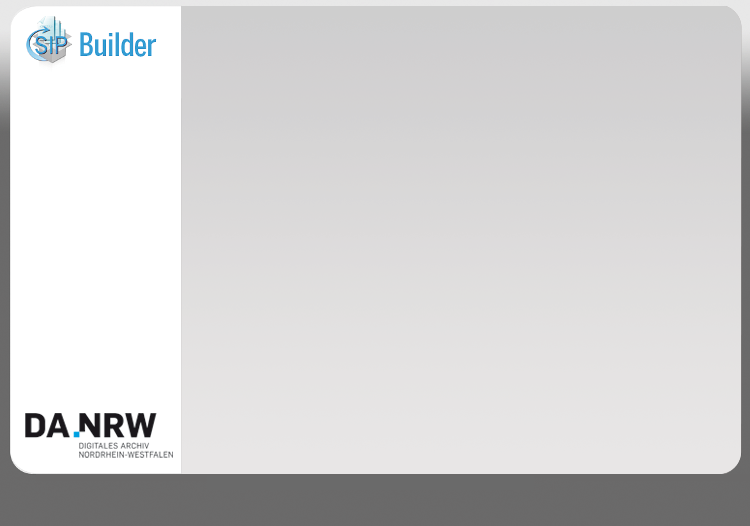
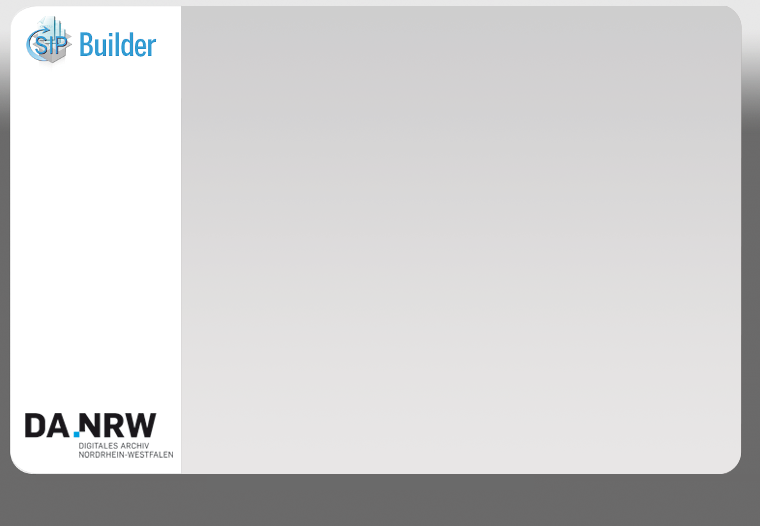
Sip Builder Issue Fixed

diff --git a/SIP-Builder/src/main/java/de/uzk/hki/da/gui/Gui.java b/SIP-Builder/src/main/java/de/uzk/hki/da/gui/Gui.java
@@ -106,7 +106,7 @@ public class Gui extends JFrame {
 
 	String confFolderPath, dataFolderPath;
 
-	int startPanelWidth = 750;
+	int startPanelWidth = 760; //750
 	int startPanelHeight = 526;
 
 	// GUI Elements
@@ -1528,7 +1528,7 @@ public class Gui extends JFrame {
 
 		// startPanel
 		startPanel.setBounds(0, 0, startPanelWidth, startPanelHeight);
-		backgroundStartImageLabel.setBounds(0, 0, 750, 526);
+		backgroundStartImageLabel.setBounds(0, 0, startPanelWidth, startPanelHeight);
 		welcomeLabel.setBounds(255, 70, 300, 40);
 		welcomeArea.setBounds(255, 100, 420, 120);
 
@@ -1549,7 +1549,7 @@ public class Gui extends JFrame {
 		goToLoadStandardButton.setBounds(575, 445, 90, 20);
 
 		// loadStandardPanel
-		loadStandardPanel.setBounds(0, 0, 750, 526);
+		loadStandardPanel.setBounds(0, 0, startPanelWidth, startPanelHeight);
 		rightsLabel.setBounds(255, 70, 300, 20);
 		rightsAreaOne.setBounds(255, 100, 430, 85);
 		loadContractButton.setBounds(350, 189, 90, 20);
@@ -1558,10 +1558,10 @@ public class Gui extends JFrame {
 		rightsAreaThree.setBounds(255, 283, 430, 100);
 		goBackToStartButton.setBounds(450, 445, 90, 20);
 		goToPublicButton.setBounds(575, 445, 90, 20);
-		backgroundLoadStandardImageLabel.setBounds(0, 0, 750, 526);
+		backgroundLoadStandardImageLabel.setBounds(0, 0, startPanelWidth, startPanelHeight);
 
 		// publicPanel
-		publicPanel.setBounds(0, 0, 750, 526);
+		publicPanel.setBounds(0, 0, startPanelWidth, startPanelHeight);
 		publicLabel.setBounds(255, 70, 300, 20);
 		publicArea.setBounds(255, 100, 400, 40);
 		publicAllowRadioButton.setBounds(251, 150, 40, 20);
@@ -1570,10 +1570,10 @@ public class Gui extends JFrame {
 		publicDDBCheckBox.setBounds(251, 285, 190, 20);
 		goBackToLoadStandardButton.setBounds(450, 445, 90, 20);
 		goToLicenseButton.setBounds(575, 445, 90, 20);
-		backgroundPublicImageLabel.setBounds(0, 0, 750, 526);
+		backgroundPublicImageLabel.setBounds(0, 0, startPanelWidth, startPanelHeight);
 
 		// publicLicensePanel
-		publicLicensePanel.setBounds(0, 0, 750, 526);
+		publicLicensePanel.setBounds(0, 0, startPanelWidth, startPanelHeight);
 		licenseLabel.setBounds(255, 70, 300, 20);
 		licenseDropDown.setEditable(false);
 		licenseDropDown.setEnabled(false);
@@ -1585,10 +1585,10 @@ public class Gui extends JFrame {
 		licenseTextField.setBounds(275, 295, 430, 20);
 		goBackToPublicButton.setBounds(450, 445, 90, 20);
 		goToPublicTempButton.setBounds(575, 445, 90, 20);
-		backgroundLicenseImageLabel.setBounds(0, 0, 750, 526);
+		backgroundLicenseImageLabel.setBounds(0, 0, startPanelWidth, startPanelHeight);
 
 		// publicTempPanel
-		publicTempPanel.setBounds(0, 0, 750, 526);
+		publicTempPanel.setBounds(0, 0, startPanelWidth, startPanelHeight);
 		publicStartLabel.setBounds(255, 70, 300, 20);
 		publicNoTempRestrictionRadioButton.setBounds(251, 100, 215, 20);
 		publicTempRadioButton.setBounds(251, 125, 215, 20);
@@ -1598,17 +1598,17 @@ public class Gui extends JFrame {
 		publicLawIdDropDown.setBounds(255, 232, 310, 20);
 		goBackToLicenseOrInstitutionButton.setBounds(450, 445, 90, 20);
 		goToPublicRestrictionButton.setBounds(575, 445, 90, 20);
-		backgroundPublicTempImageLabel.setBounds(0, 0, 750, 526);
+		backgroundPublicTempImageLabel.setBounds(0, 0, startPanelWidth, startPanelHeight);
 
 		// publicRestrictionPanel
-		publicRestrictionPanel.setBounds(0, 0, 750, 526);
+		publicRestrictionPanel.setBounds(0, 0, startPanelWidth, startPanelHeight);
 		publicRestrictionHeadlineLabel.setBounds(255, 70, 350, 20);
 		publicRestrictionArea.setBounds(255, 100, 360, 40);
 		publicTabbedPane.setBounds(255, 140, 380, 295);
 		goBackToPublicTempButton.setBounds(450, 445, 90, 20);
 		goToInstitutionButton.setBounds(575, 445, 90, 20);
 
-		backgroundPublicRestrictionImageLabel.setBounds(0, 0, 750, 526);
+		backgroundPublicRestrictionImageLabel.setBounds(0, 0, startPanelWidth, startPanelHeight);
 
 		// publicRestrictionTextPanel
 		publicTextRestrictionCheckBox.setBounds(6, 10, 212, 20);
@@ -1644,17 +1644,17 @@ public class Gui extends JFrame {
 		publicVideoDurationDropDown.setBounds(10, 134, 100, 20);
 
 		// institutionPanel
-		institutionPanel.setBounds(0, 0, 750, 526);
+		institutionPanel.setBounds(0, 0, startPanelWidth, startPanelHeight);
 		institutionLabel.setBounds(255, 70, 300, 20);
 		institutionArea.setBounds(255, 100, 400, 90);
 		institutionAllowRadioButton.setBounds(251, 210, 40, 20);
 		institutionDenyRadioButton.setBounds(251, 235, 60, 20);
 		goBackToPublicRestrictionOrPublicButton.setBounds(450, 445, 90, 20);
 		goToInstitutionTempButton.setBounds(575, 445, 90, 20);
-		backgroundInstitutionImageLabel.setBounds(0, 0, 750, 526);
+		backgroundInstitutionImageLabel.setBounds(0, 0, startPanelWidth, startPanelHeight);
 
 		// institutionTempPanel
-		institutionTempPanel.setBounds(0, 0, 750, 526);
+		institutionTempPanel.setBounds(0, 0, startPanelWidth, startPanelHeight);
 		institutionStartLabel.setBounds(255, 70, 300, 20);
 		institutionNoTempRestrictionRadioButton.setBounds(251, 100, 215, 20);
 		institutionTempRadioButton.setBounds(251, 125, 215, 20);
@@ -1664,16 +1664,16 @@ public class Gui extends JFrame {
 		institutionLawIdDropDown.setBounds(255, 232, 310, 20);
 		goBackToInstitutionButton.setBounds(450, 445, 90, 20);
 		goToInstitutionRestrictionOrPublicButton.setBounds(575, 445, 90, 20);
-		backgroundInstitutionTempImageLabel.setBounds(0, 0, 750, 526);
+		backgroundInstitutionTempImageLabel.setBounds(0, 0, startPanelWidth, startPanelHeight);
 
 		// institutionRestrictionPanel
-		institutionRestrictionPanel.setBounds(0, 0, 750, 526);
+		institutionRestrictionPanel.setBounds(0, 0, startPanelWidth, startPanelHeight);
 		institutionRestrictionHeadlineLabel.setBounds(255, 70, 350, 20);
 		institutionRestrictionArea.setBounds(255, 100, 360, 40);
 		institutionTabbedPane.setBounds(255, 140, 380, 295);
 		goBackToInstitutionTempButton.setBounds(450, 445, 90, 20);
 		goToMigrationButton.setBounds(575, 445, 90, 20);
-		backgroundInstitutionRestrictionImageLabel.setBounds(0, 0, 750, 526);
+		backgroundInstitutionRestrictionImageLabel.setBounds(0, 0, startPanelWidth, startPanelHeight);
 
 		// institutionRestrictionTextPanel
 		institutionTextRestrictionCheckBox.setBounds(6, 10, 212, 20);
@@ -1709,17 +1709,17 @@ public class Gui extends JFrame {
 		institutionVideoDurationDropDown.setBounds(10, 134, 100, 20);
 
 		// migrationPanel
-		migrationPanel.setBounds(0, 0, 750, 526);
+		migrationPanel.setBounds(0, 0, startPanelWidth, startPanelHeight);
 		migrationConversionLabel.setBounds(255, 70, 330, 20);
 		migrationArea.setBounds(255, 100, 450, 125);
 		migrationConditionLabel.setBounds(255, 225, 115, 20);
 		migrationDropDown.setBounds(370, 227, 240, 20);
 		goBackToInstitutionRestrictionOrTempButton.setBounds(450, 445, 90, 20);
 		goToSaveButton.setBounds(575, 445, 90, 20);
-		backgroundMigrationImageLabel.setBounds(0, 0, 750, 526);
+		backgroundMigrationImageLabel.setBounds(0, 0, startPanelWidth, startPanelHeight);
 
 		// savePanel
-		savePanel.setBounds(0, 0, 750, 526);
+		savePanel.setBounds(0, 0, startPanelWidth, startPanelHeight);
 		saveLabel.setBounds(255, 70, 300, 20);
 		settingsOverviewInfoArea.setBounds(255, 100, 450, 25);
 		settingsOverviewArea.setBounds(255, 130, 450, 205);
@@ -1727,10 +1727,10 @@ public class Gui extends JFrame {
 		saveButton.setBounds(400, 390, 90, 20);
 		goBackToMigrationButton.setBounds(450, 445, 90, 20);
 		goToCreateButton.setBounds(575, 445, 90, 20);
-		backgroundSaveImageLabel.setBounds(0, 0, 750, 526);
+		backgroundSaveImageLabel.setBounds(0, 0, startPanelWidth, startPanelHeight);
 
 		// createPanel
-		createPanel.setBounds(0, 0, 750, 526);
+		createPanel.setBounds(0, 0, startPanelWidth, startPanelHeight);
 		createLabel.setBounds(255, 70, 350, 20);
 		createArea.setBounds(255, 100, 400, 110);
 		compressionCheckBox.setBounds(251, 220, 175, 20);
@@ -1741,7 +1741,7 @@ public class Gui extends JFrame {
 		createButton.setBounds(575, 445, 90, 20);
 		abortButton.setBounds(575, 445, 90, 20);
 		quitButton.setBounds(575, 445, 90, 20);
-		backgroundCreateImageLabel.setBounds(0, 0, 750, 526);
+		backgroundCreateImageLabel.setBounds(0, 0, startPanelWidth, startPanelHeight);
 	}
 
 	/**

diff --git a/SIP-Builder/src/main/java/de/uzk/hki/da/main/SIPBuilder.java b/SIP-Builder/src/main/java/de/uzk/hki/da/main/SIPBuilder.java
@@ -120,7 +120,8 @@ public class SIPBuilder {
     	UIManager.put("CheckBox.disabledText", Color.LIGHT_GRAY);
 
     	Gui gui = new Gui(confFolderPath, dataFolderPath);
-    	gui.setBounds(100, 100, 750, 520);
+    	gui.setBounds(100, 100, 760, 530);
+    	//gui.setBounds(100, 100, 750, 520);
     	gui.setResizable(false);
     	gui.setVisible(true);
     	gui.setDefaultCloseOperation(JFrame.EXIT_ON_CLOSE);
